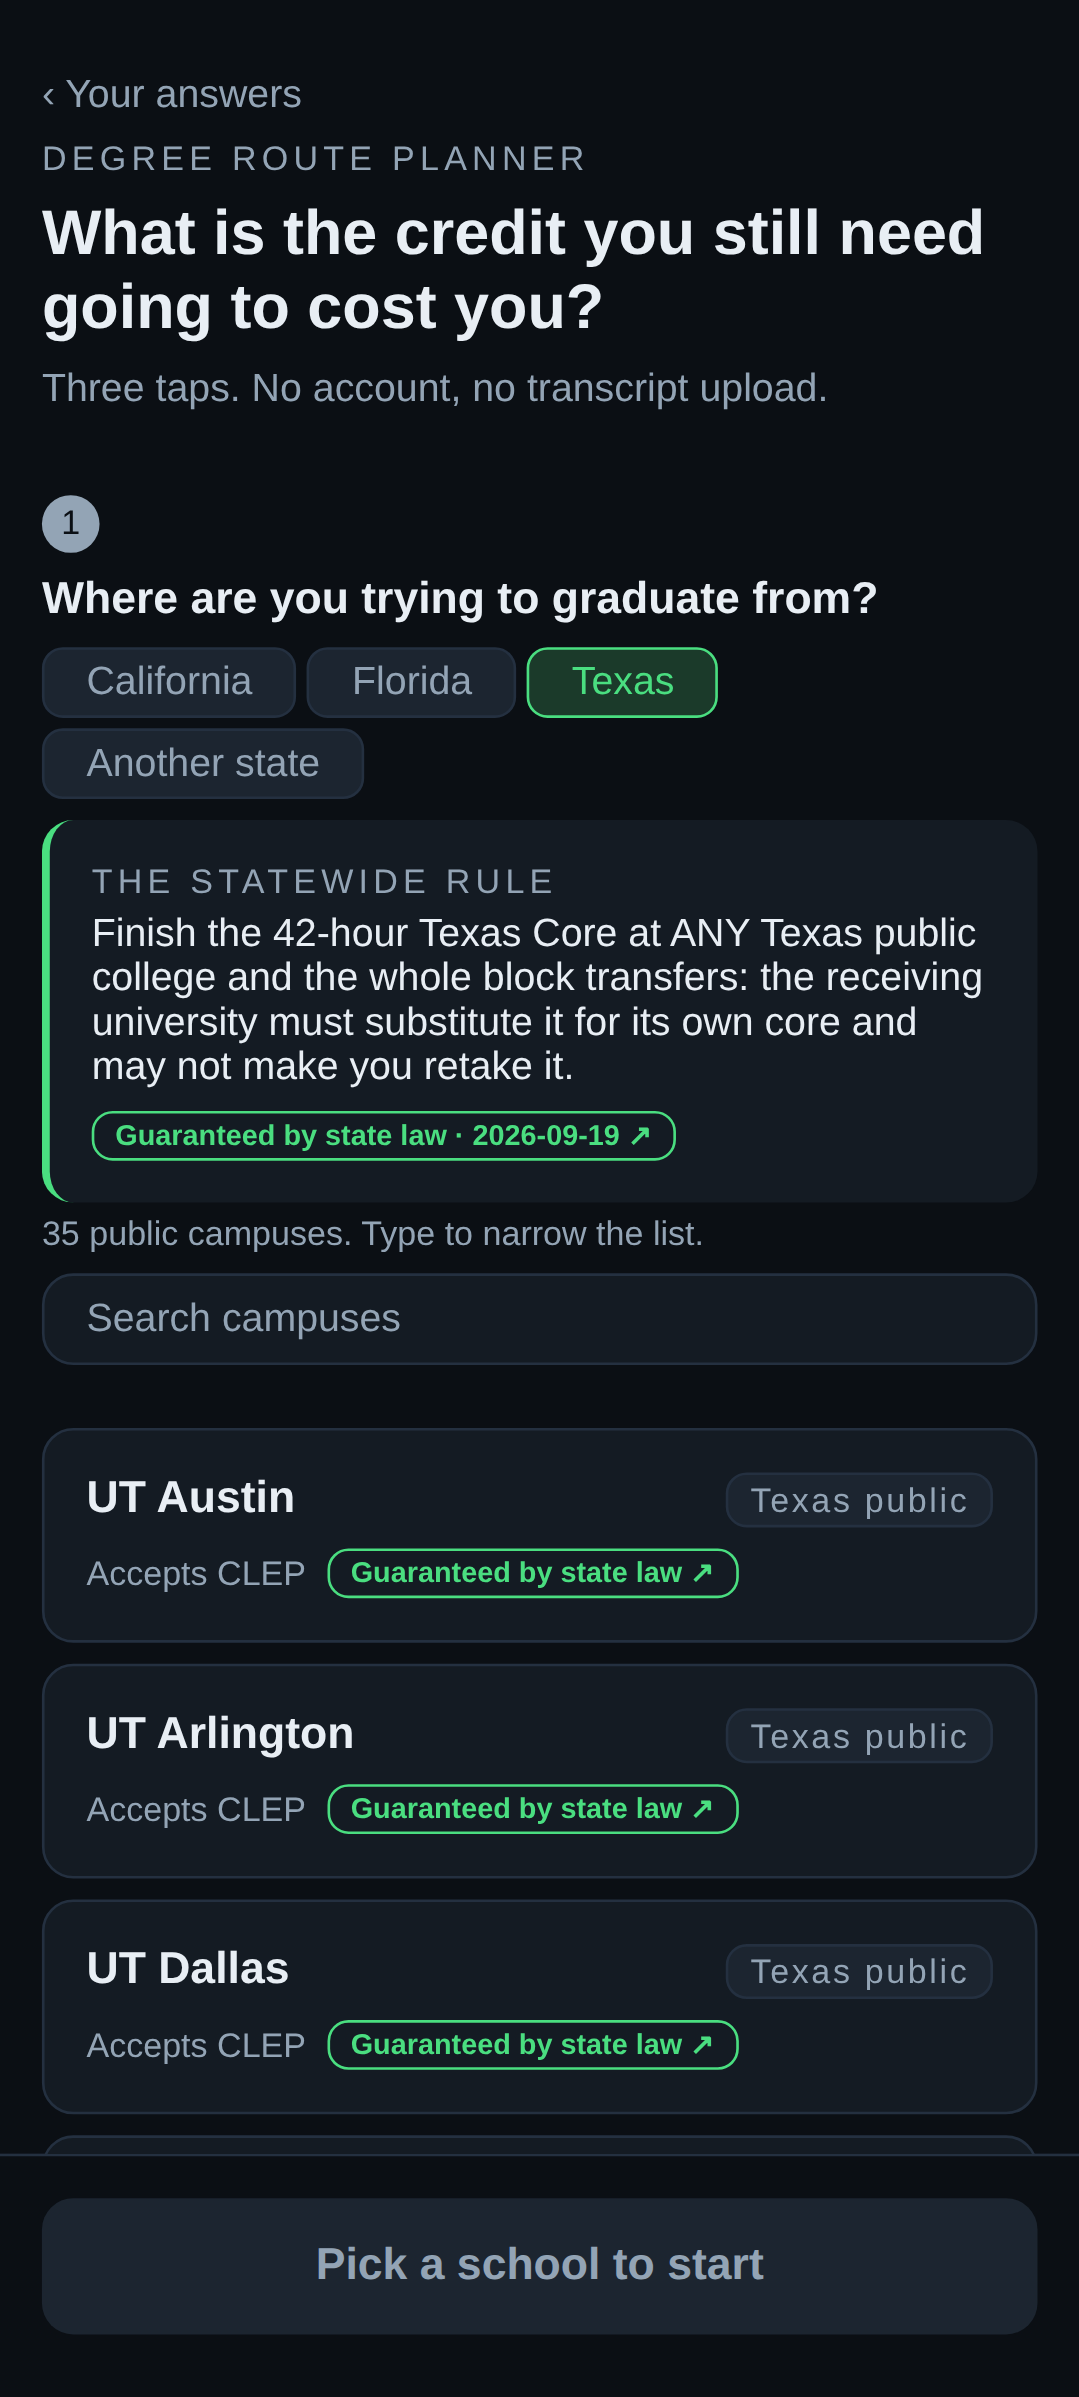
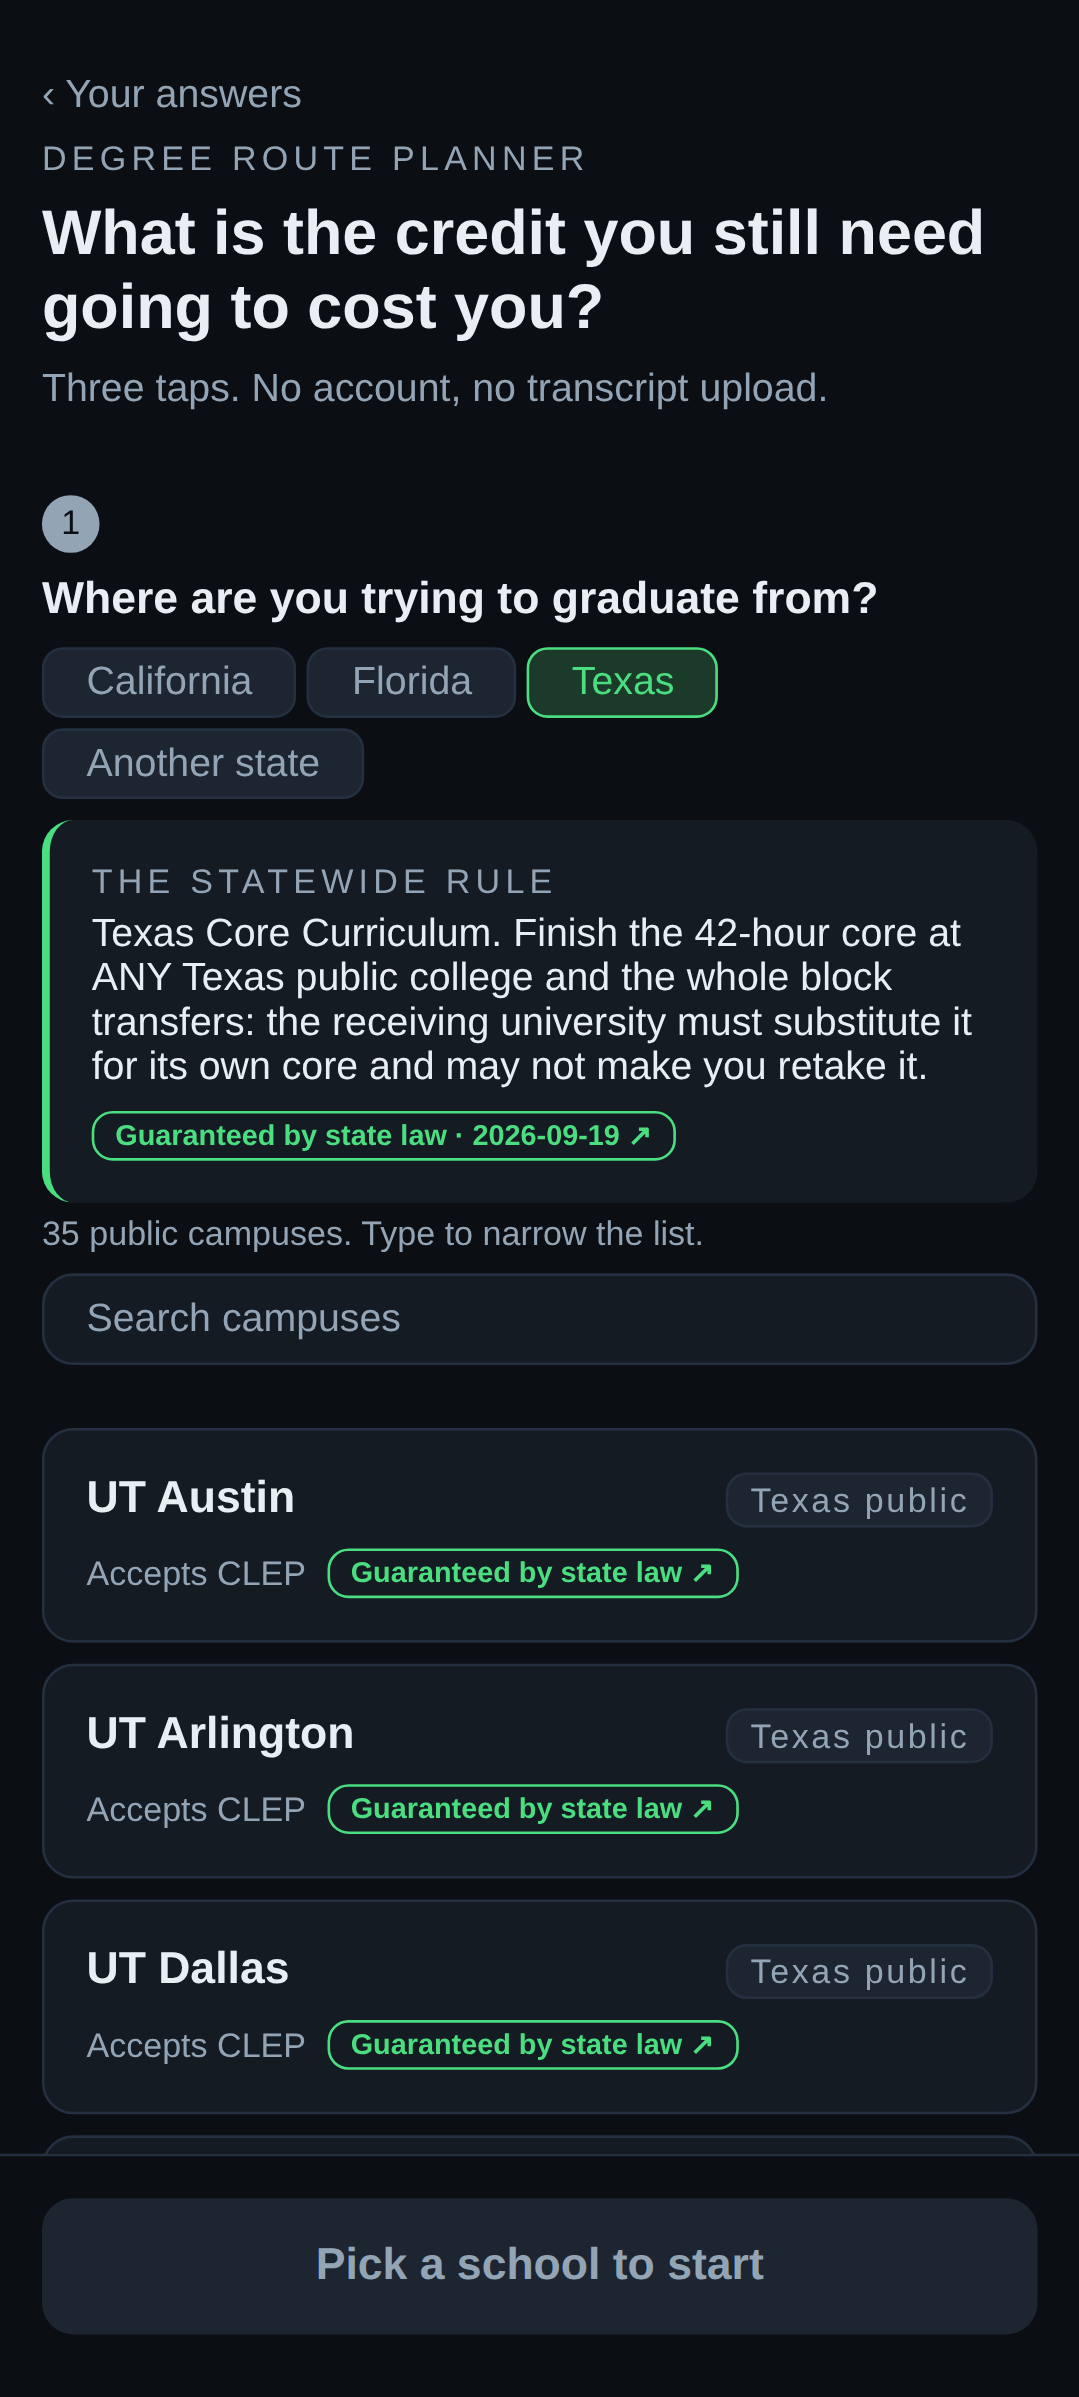
Stop hiding third-party credit in the state that protects it best
`forState` kept third-party providers only where some campus in that state
REFUSED them. Florida refuses nothing, so the entire section vanished there —
in the one state whose statute gives a student the right to have that credit
evaluated on request before their first term.

The app was silent exactly where it had the most to say, because silence had
been wired to "nobody objected". Third-party providers are national and their
whole value is in what the destination says about them, so they now survive
every slice regardless.

The test that covered this asserted only California, which is the state where
the old rule happened to work. It now checks all three.

Claude-Session: https://claude.ai/code/session_01CuYsVtJAiKr7uGFTZejJc5

Changed region(s): [[0.0918, 0.3705, 0.9175, 0.4631]]

diff --git a/src/dataset.ts b/src/dataset.ts
@@ -72,14 +72,20 @@ export function forState(ds: Dataset, state: StateCode): Dataset {
     systems: ds.systems.filter(s => systemIds.has(s.id)),
     institutions,
     areas: ds.areas.filter(a => a.applies_to.some(s => systemIds.has(s))),
-    // A family that some campus in this state REFUSES survives the slice even
-    // with no rule behind it. The whole reason to list Sophia, or UExcel, is to
-    // tell a UC-bound student that UC will not look at it — and a source
-    // filtered out for having no acceptance rule is a source the student cannot
-    // tick, so the warning can never fire. This used to be a special case for
-    // `alt_provider`; DLPT and UExcel arrived and it stopped being special.
+    // Three reasons to keep a source the rules do not reach.
+    //
+    // A family some campus here REFUSES: the whole reason to list UExcel is to
+    // tell a UC-bound student UC will not look at it, and a source the student
+    // cannot tick is a warning that can never fire.
+    //
+    // And `alt_provider` ALWAYS, regardless of state. Keeping it only where a
+    // campus refused it hid the entire third-party section in Florida — the
+    // state with the strongest published right in the country, where statute
+    // gives a student the right to have that credit evaluated on request before
+    // their first term. The app was silent exactly where it had the most to
+    // say, because silence had been wired to "nobody objected".
     creditSources: ds.creditSources.filter(
-      c => sourceIds.has(c.id) || refusedKinds.has(c.kind),
+      c => sourceIds.has(c.id) || refusedKinds.has(c.kind) || c.kind === 'alt_provider',
     ),
     rules,
   };

diff --git a/src/engine.test.ts b/src/engine.test.ts
@@ -4,7 +4,7 @@ import {
   planRoute, planAllRoutes, baselineCost, routeSaving, optionsForArea, pathwayCosts,
   effectiveCost, frameworkFor, jurisdictionFor, systemFor,
 } from './engine.ts';
-import { california, unitedStates } from './dataset.ts';
+import { california, forState, unitedStates } from './dataset.ts';
 import type { StudentProfile } from './types.ts';
 
 const ds = california;
@@ -1057,11 +1057,19 @@ test('every third-party provider names its transcript and who recommends it', ()
   }
 });
 
-test('third-party providers survive a state slice even with no rule behind them', () => {
+test('third-party providers survive every state slice, refusal or not', () => {
   // They have no acceptance rules anywhere, so a slice that filtered unused
-  // sources would drop them — and the UC warning that justifies listing them
-  // at all can only fire for a source the student can actually tick.
-  assert.ok(california.creditSources.some(c => c.kind === 'alt_provider'));
+  // sources drops them. Keeping them only where a campus REFUSED them hid the
+  // whole section in Florida — the state with the strongest published right in
+  // the country, where statute gives you the right to have this credit
+  // evaluated on request. Silence had been wired to "nobody objected".
+  for (const code of ['CA', 'TX', 'FL'] as const) {
+    const slice = forState(us, code);
+    assert.ok(
+      slice.creditSources.some(c => c.kind === 'alt_provider'),
+      `${code} lost its third-party providers`,
+    );
+  }
 });
 
 test('UC takes IB and refuses DSST, in the same plan', () => {
